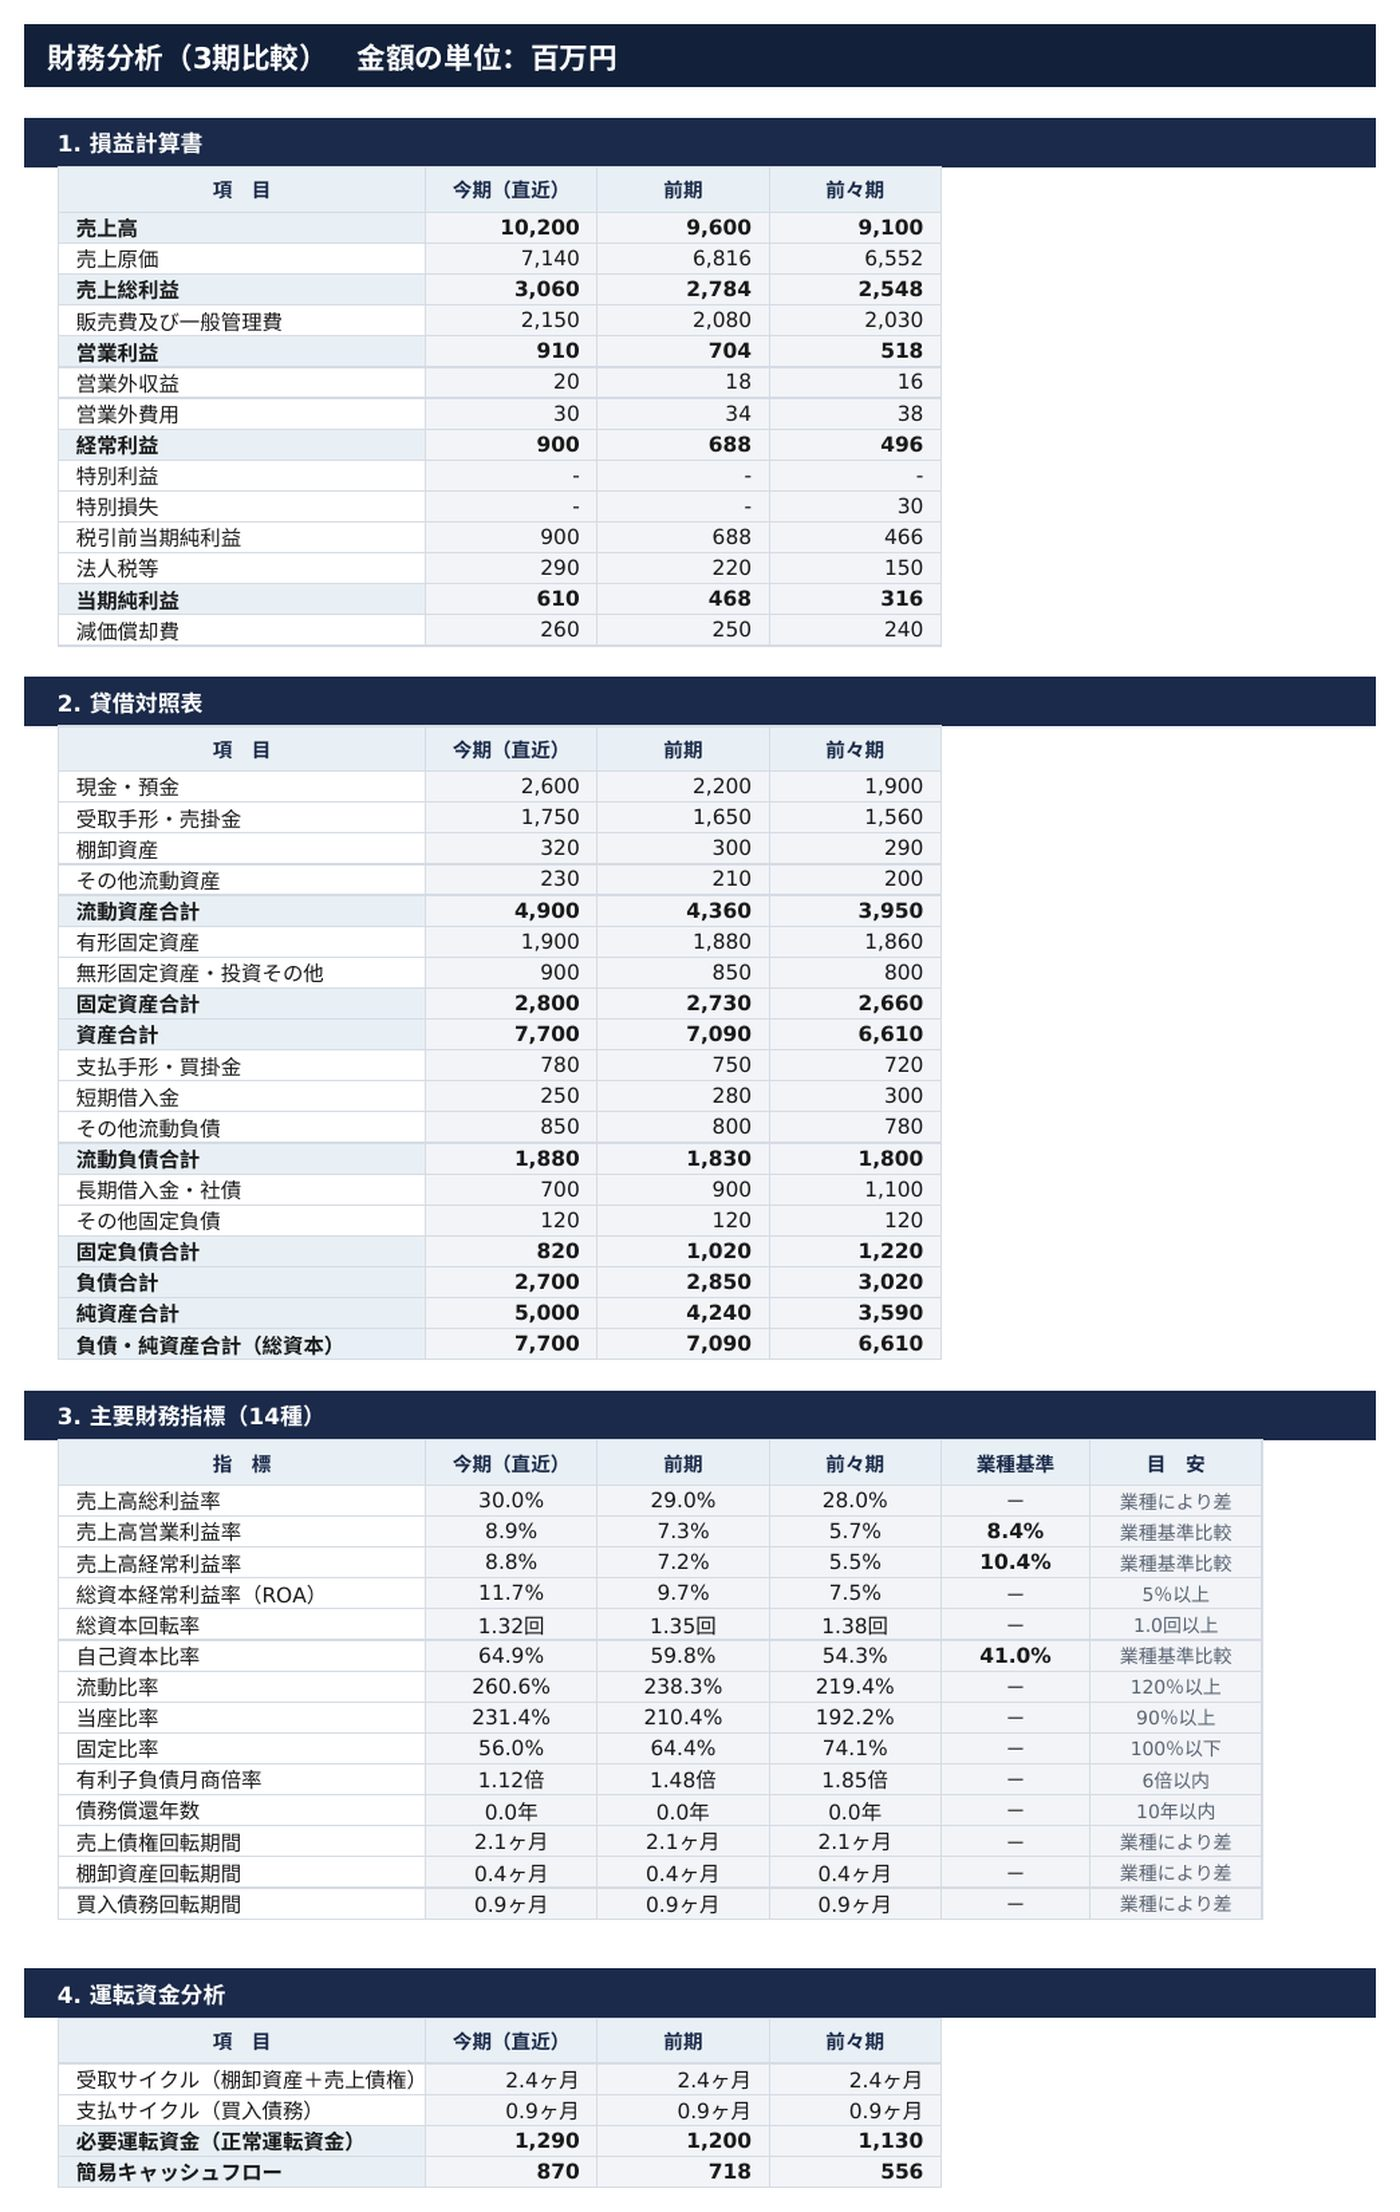
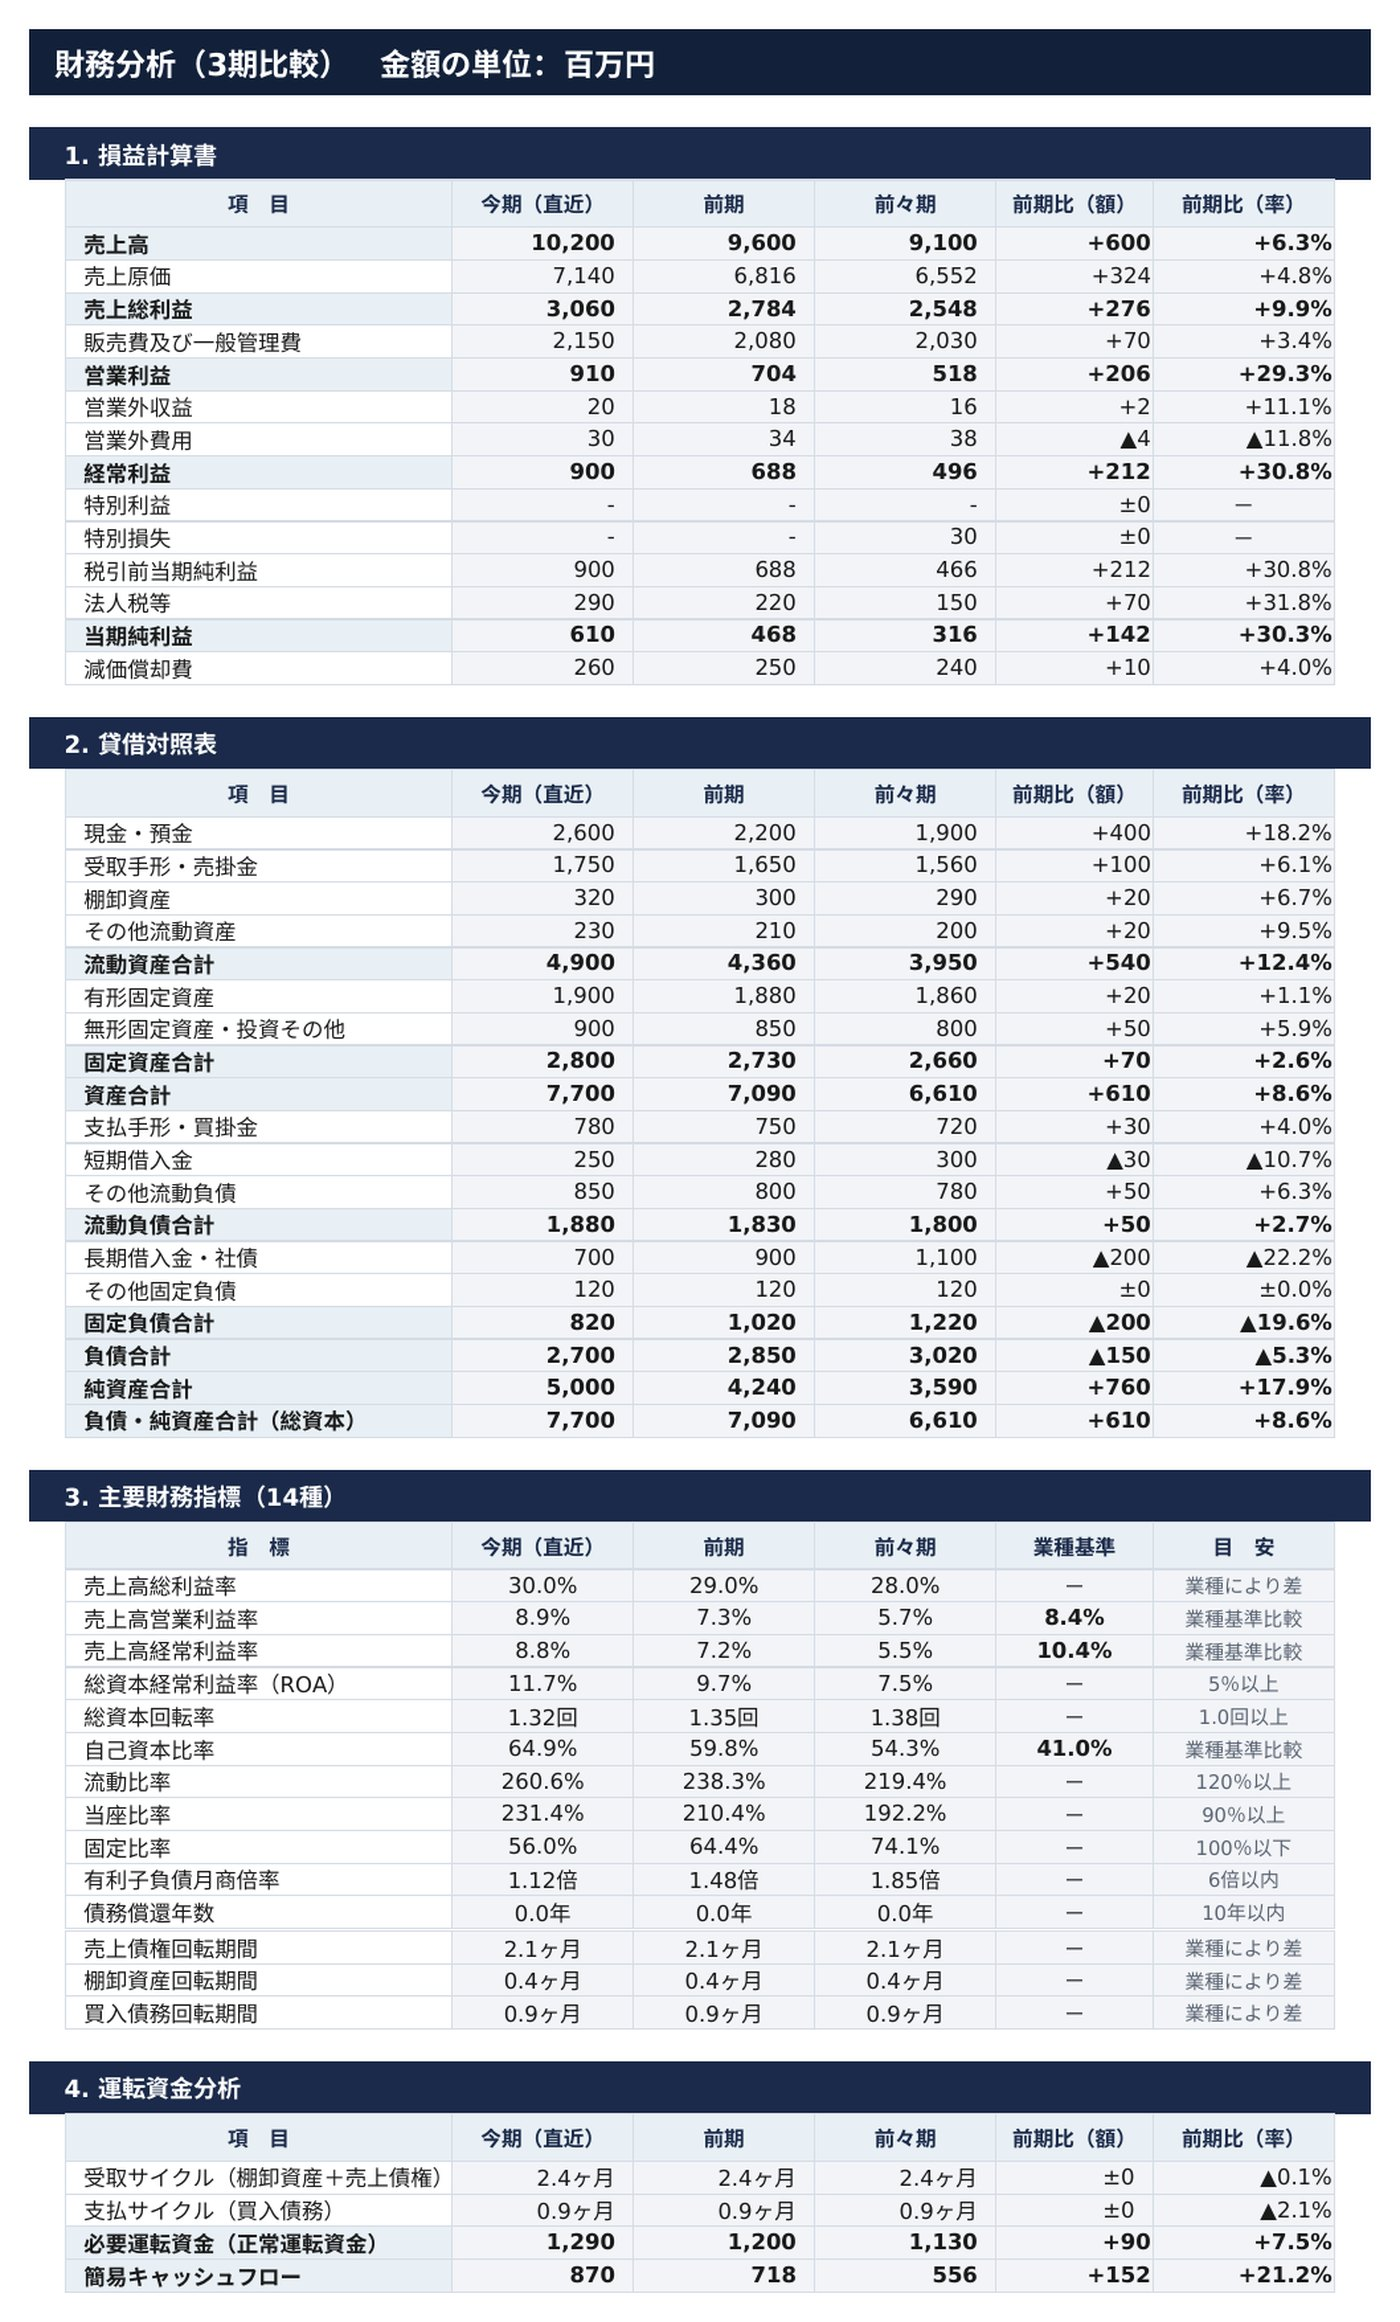
Add files via upload

Changed region(s): [[0.0, 0.0, 0.9829, 0.9982], [0.2764, 0.7175, 0.3071, 0.7486], [0.2764, 0.2184, 0.3071, 0.2495]]

diff --git a/credit-pro/xlsx-export.js b/credit-pro/xlsx-export.js
@@ -288,8 +288,9 @@ function sheetSummary(wb, r) {
  * ======================================================================== */
 function sheetFinance(wb, r) {
   const ws = wb.addWorksheet("②財務分析", { views: [{ showGridLines: false }] });
+  // 右端の H 列は余白。左端の A 列（3）とそろえ、見出しの帯が表より右にはみ出さないようにする
   ws.columns = [{ width: 3 }, { width: 32 }, { width: wide(15) }, { width: wide(15) }, { width: wide(15) },
-                { width: 13 }, { width: 15 }, { width: 10 }];
+                { width: 13 }, { width: 15 }, { width: 3 }];
   const LC = 8;
   ws.mergeCells("A1:H1");
   put(ws, "A1", ` 財務分析（3期比較）　金額の単位：${UNIT.label}`, { font: font(14, true, C.white), align: AL.l, border: false });
@@ -303,7 +304,7 @@ function sheetFinance(wb, r) {
     for (const [name, vals, fmt, bold] of rows) {
       put(ws, `B${row}`, name, { font: font(10, !!bold), fill: bold ? C.steelL : undefined });
       vals.forEach((v, j) => put(ws, `${"CDEFG"[j]}${row}`, v, {
-        numFmt: fmt, align: typeof v === "string" ? AL.c : AL.r,
+        numFmt: Array.isArray(fmt) ? fmt[j] : fmt, align: typeof v === "string" ? AL.c : AL.r,
         fill: C.calc, font: font(10, !!bold),
       }));
       row++;
@@ -312,32 +313,43 @@ function sheetFinance(wb, r) {
   };
 
   const P = [r.cur, r.prev, r.prev2];
-  const m = (k) => [amt(P[0][k]), amt(P[1][k]), amt(P[2][k])];
+  /* 損益計算書・貸借対照表は「今期・前期・前々期」に、前期比（額・率）の2列を足して、
+     下の財務指標の表と同じ幅（B〜G列）にそろえる。前期の決算が入っていないときは「－」 */
+  const prevExists = !!(Number(P[1].sales) || Number(P[1].totalAssets));
+  const CHG = '+#,##0;"▲"#,##0;"±0"';
+  const CHGR = '+0.0%;"▲"0.0%;"±0.0%"';
+  const FMT6 = [MONEY, MONEY, MONEY, CHG, CHGR];
+  const m = (k) => {
+    const a = amt(P[0][k]), b = amt(P[1][k]), c = amt(P[2][k]);
+    return [a, b, c,
+      prevExists ? a - b : "－",
+      prevExists && b > 0 ? a / b - 1 : "－"];
+  };
   table("1. 損益計算書", [
-    ["売上高", m("sales"), MONEY, true], ["売上原価", m("cogs"), MONEY],
-    ["売上総利益", m("grossProfit"), MONEY, true], ["販売費及び一般管理費", m("sga"), MONEY],
-    ["営業利益", m("operatingProfit"), MONEY, true], ["営業外収益", m("nonOpInc"), MONEY],
-    ["営業外費用", m("nonOpExp"), MONEY], ["経常利益", m("ordinaryProfit"), MONEY, true],
-    ["特別利益", m("extraInc"), MONEY], ["特別損失", m("extraExp"), MONEY],
-    ["税引前当期純利益", m("pretaxProfit"), MONEY], ["法人税等", m("tax"), MONEY],
-    ["当期純利益", m("netProfit"), MONEY, true], ["減価償却費", m("depreciation"), MONEY],
-  ], ["項　目", "今期（直近）", "前期", "前々期"]);
+    ["売上高", m("sales"), FMT6, true], ["売上原価", m("cogs"), FMT6],
+    ["売上総利益", m("grossProfit"), FMT6, true], ["販売費及び一般管理費", m("sga"), FMT6],
+    ["営業利益", m("operatingProfit"), FMT6, true], ["営業外収益", m("nonOpInc"), FMT6],
+    ["営業外費用", m("nonOpExp"), FMT6], ["経常利益", m("ordinaryProfit"), FMT6, true],
+    ["特別利益", m("extraInc"), FMT6], ["特別損失", m("extraExp"), FMT6],
+    ["税引前当期純利益", m("pretaxProfit"), FMT6], ["法人税等", m("tax"), FMT6],
+    ["当期純利益", m("netProfit"), FMT6, true], ["減価償却費", m("depreciation"), FMT6],
+  ], ["項　目", "今期（直近）", "前期", "前々期", "前期比（額）", "前期比（率）"]);
 
   table("2. 貸借対照表", [
-    ["現金・預金", m("cash"), MONEY], ["受取手形・売掛金", m("receivables"), MONEY],
-    ["棚卸資産", m("inventory"), MONEY], ["その他流動資産", m("otherCurrentAssets"), MONEY],
-    ["流動資産合計", m("currentAssets"), MONEY, true],
-    ["有形固定資産", m("tangible"), MONEY], ["無形固定資産・投資その他", m("otherFixedAssets"), MONEY],
-    ["固定資産合計", m("fixedAssets"), MONEY, true],
-    ["資産合計", m("totalAssets"), MONEY, true],
-    ["支払手形・買掛金", m("payables"), MONEY], ["短期借入金", m("shortDebt"), MONEY],
-    ["その他流動負債", m("otherCurrentLiab"), MONEY],
-    ["流動負債合計", m("currentLiab"), MONEY, true],
-    ["長期借入金・社債", m("longDebt"), MONEY], ["その他固定負債", m("otherFixedLiab"), MONEY],
-    ["固定負債合計", m("fixedLiab"), MONEY, true], ["負債合計", m("totalLiab"), MONEY, true],
-    ["純資産合計", m("equity"), MONEY, true],
-    ["負債・純資産合計（総資本）", m("totalCapital"), MONEY, true],
-  ], ["項　目", "今期（直近）", "前期", "前々期"]);
+    ["現金・預金", m("cash"), FMT6], ["受取手形・売掛金", m("receivables"), FMT6],
+    ["棚卸資産", m("inventory"), FMT6], ["その他流動資産", m("otherCurrentAssets"), FMT6],
+    ["流動資産合計", m("currentAssets"), FMT6, true],
+    ["有形固定資産", m("tangible"), FMT6], ["無形固定資産・投資その他", m("otherFixedAssets"), FMT6],
+    ["固定資産合計", m("fixedAssets"), FMT6, true],
+    ["資産合計", m("totalAssets"), FMT6, true],
+    ["支払手形・買掛金", m("payables"), FMT6], ["短期借入金", m("shortDebt"), FMT6],
+    ["その他流動負債", m("otherCurrentLiab"), FMT6],
+    ["流動負債合計", m("currentLiab"), FMT6, true],
+    ["長期借入金・社債", m("longDebt"), FMT6], ["その他固定負債", m("otherFixedLiab"), FMT6],
+    ["固定負債合計", m("fixedLiab"), FMT6, true], ["負債合計", m("totalLiab"), FMT6, true],
+    ["純資産合計", m("equity"), FMT6, true],
+    ["負債・純資産合計（総資本）", m("totalCapital"), FMT6, true],
+  ], ["項　目", "今期（直近）", "前期", "前々期", "前期比（額）", "前期比（率）"]);
 
   const q = r.ratios.periods, bm = r.benchmark;
   const rr = (k) => [q[0][k], q[1][k], q[2][k]];
@@ -369,12 +381,18 @@ function sheetFinance(wb, r) {
   }
   row++;
 
+  // 運転資金分析も同じ6列にそろえる。サイクル（ヶ月）の前期比は月数の差と率で出す
+  const MON = '0.0"ヶ月"';
+  const FMTM = [MON, MON, MON, '+0.0"ヶ月";"▲"0.0"ヶ月";"±0"', CHGR];
+  const withChg = (v3) => [v3[0], v3[1], v3[2],
+    prevExists ? Math.round((v3[0] - v3[1]) * 10) / 10 : "－",   // 表示と同じ0.1ヶ月単位に丸める（▲0.0ヶ月を出さない）
+    prevExists && v3[1] > 0 ? v3[0] / v3[1] - 1 : "－"];
   table("4. 運転資金分析", [
-    ["受取サイクル（棚卸資産＋売上債権）", rr("inventoryMonths").map((v, i) => v + rr("receivableMonths")[i]), '0.0"ヶ月"'],
-    ["支払サイクル（買入債務）", rr("payableMonths"), '0.0"ヶ月"'],
-    ["必要運転資金（正常運転資金）", m("workingCapital"), MONEY, true],
-    ["簡易キャッシュフロー", m("simpleCF"), MONEY, true],
-  ], ["項　目", "今期（直近）", "前期", "前々期"]);
+    ["受取サイクル（棚卸資産＋売上債権）", withChg(rr("inventoryMonths").map((v, i) => v + rr("receivableMonths")[i])), FMTM],
+    ["支払サイクル（買入債務）", withChg(rr("payableMonths")), FMTM],
+    ["必要運転資金（正常運転資金）", m("workingCapital"), FMT6, true],
+    ["簡易キャッシュフロー", m("simpleCF"), FMT6, true],
+  ], ["項　目", "今期（直近）", "前期", "前々期", "前期比（額）", "前期比（率）"]);
 
   ws.pageSetup = { paperSize: 9, orientation: "portrait", fitToPage: true, fitToWidth: 1, fitToHeight: 0 };
   return ws;
